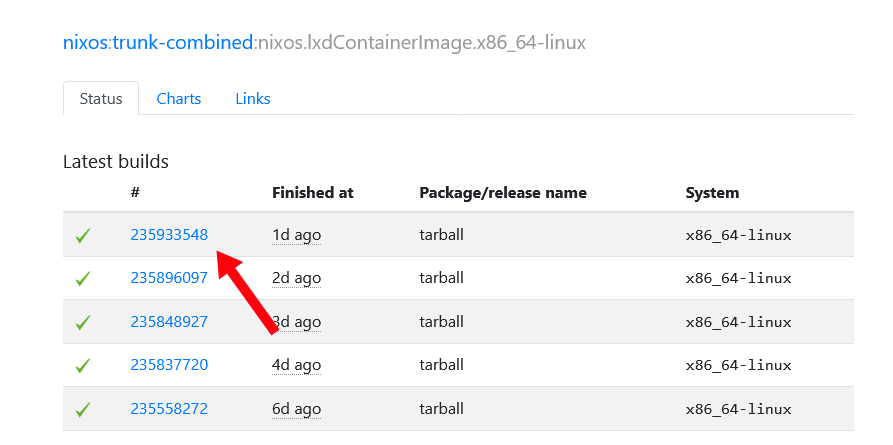
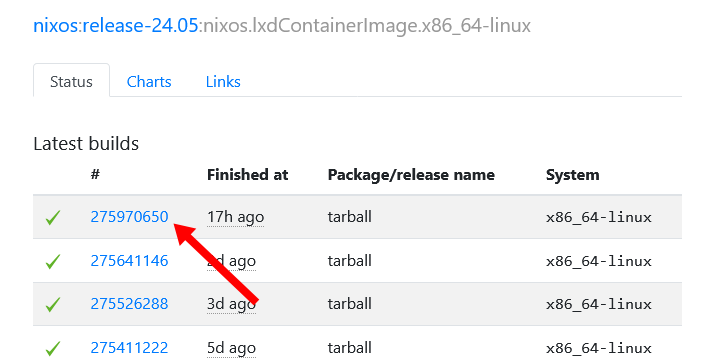
work in progress

diff --git a/content/notes/nixos-proxmox/index.md b/content/notes/nixos-proxmox/index.md
@@ -22,9 +22,9 @@ First, download the latest [NixOS x86_x64 lxdContainerImage image](https://hydra
 **Warning**: Hydra also features a build called [`proxmoxLXC.x86_64-linux`](https://hydra.nixos.org/job/nixos/release-24.05/nixos.proxmoxLXC.x86_64-linux). I expected it to work even better on Proxmox, but it seems to be broken. It boots NixOS, but the login does not accept any standard NixOS credential (`nixos`, `root`).
 {{</notice>}}
 
-At the time of this writing, the latest NixOS container build is [275970735](https://hydra.nixos.org/build/275970735), but you can just click whatever is the latest build as you read this.
+At the time of this writing, the latest NixOS container build is [275970650](https://hydra.nixos.org/build/275970650), but you can just click whatever is the latest build as you read this.
 
-{{<img src="download-build.webp" alt="Screenshot of latest builds page, showing a NixOS container image build each day." has-border="true" max-width="800px">}}
+{{<img src="download-build.webp" alt="Screenshot of latest builds page, showing a NixOS container image build each day." has-border="true" max-width="724px">}}
 
 From the build result page, click the link labeled `nixos-system-x86_64-linux.tar.xz` to download the image:
 
@@ -56,14 +56,30 @@ In the upload dialog, click "Select File..." and select the NixOS container imag
 
 ## Create a NixOS container
 
+For the next step, you need to SSH to your Proxmox system and switch to the `root` user context:
+
 ```bash
+ssh root@pve
+```
+
+From the Proxmox SSH session, select the settings for the new NixOS container:
+
+```bash
+# Where the template file is located
 TEMPLATE_STORAGE='local'
+# Name of the template file downloaded from Hydra.
 TEMPLATE_FILE='nixos-2024-10-21-lxdContainerImage.x86_64-linux.tar.xz'
+# Name to assign to new NixOS container.
 CONTAINER_HOSTNAME='nixos'
+# Which storage location to place the new NixOS container.
 CONTAINER_STORAGE='local'
+# How much RAM to assign the new container.
 CONTAINER_RAM_IN_MB='8192'
+# How much disk space to assign the new container.
 CONTAINER_DISK_SIZE_IN_GB='80'
 ```
+
+With those settings in place, create the new NixOS container with `pct create`:
 
 ```bash
 pct create "$(pvesh get /cluster/nextid)" \
@@ -83,9 +99,7 @@ pct create "$(pvesh get /cluster/nextid)" \
   --start 1
 ```
 
-Type `root` as username, and it will auto-log in with no password.
-
-## Start NixOS
+## Log in to NixOS
 
 Your NixOS container is now configured!
 
